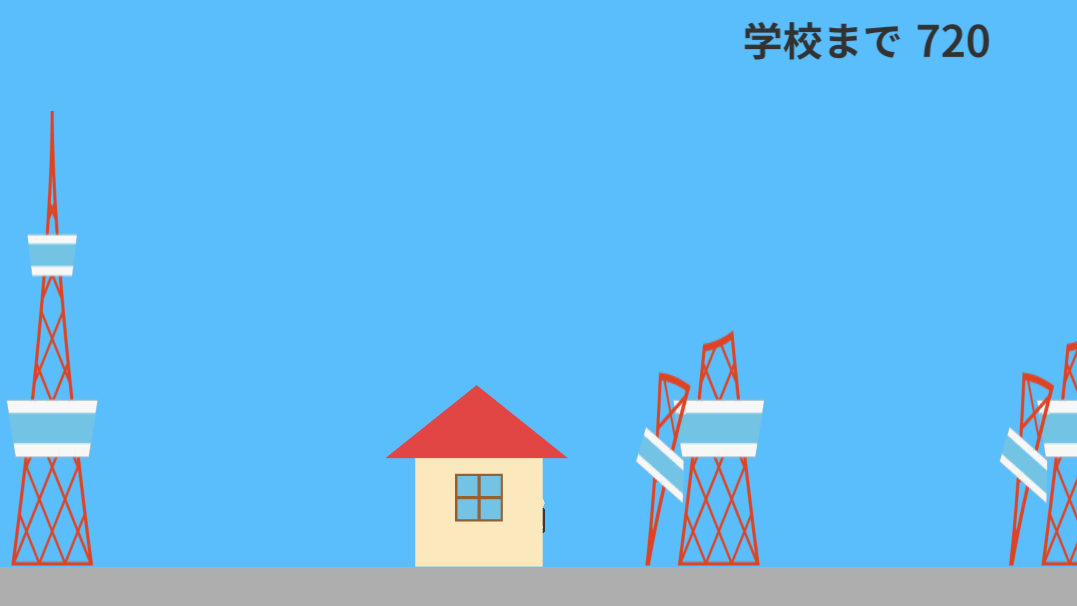
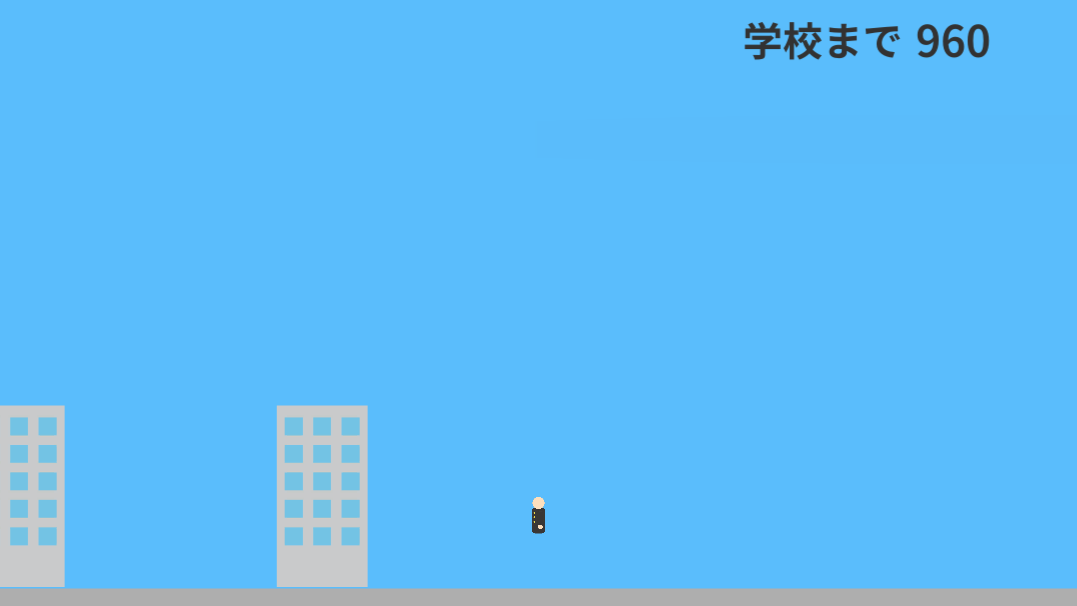
kannsei

Changed region(s): [[0.0, 0.1782, 1.0, 0.9802], [0.8273, 0.0297, 0.9192, 0.0891]]

diff --git a/Assets/Scripts/GameMain/CameraManager.cs b/Assets/Scripts/GameMain/CameraManager.cs
@@ -16,22 +16,21 @@ namespace gamemain {
 
         private void Start() {
             map_ = GameObject.Find("MapGenerator").GetComponent<MapGenerator>();
+            transform.position = new Vector3(map_.m_schoolPos.x, transform.position.y, transform.position.z);
 
-            // tweener_ = transform.DOMove(target_.transform.position + new Vector3(difference_.x, 0, -10), 5.0f);
+            tweener_ = transform.DOMove(target_.transform.position + new Vector3(difference_.x, difference_.y, -10), 5.0f).OnComplete(() => tweener_ = null);
         }
 
         private void LateUpdate() {
 
-            /* 
-            if (Input.GetMouseButtonDown(0)) {
+            if (Input.GetKeyDown(KeyCode.Return)) {
                 tweener_.Kill();
                 tweener_ = null;
             }
-			*/
 
-            // if (tweener_ == null || tweener_.IsComplete()) {
-            transform.position = target_.transform.position + new Vector3(difference_.x, difference_.y, -10);
-            // }
+            if (tweener_ == null || tweener_.IsComplete()) {
+                transform.position = target_.transform.position + new Vector3(difference_.x, difference_.y, -10);
+            }
         }
     }
 }

diff --git a/Assets/hira/Script/MapGenerator.cs b/Assets/hira/Script/MapGenerator.cs
@@ -9,7 +9,7 @@ public class MapGenerator : MonoBehaviour {
     private const int m_minLength = 50;
     private const int m_maxLength = 100;
 
-    private Vector3 m_schoolPos;
+    public Vector3 m_schoolPos;
 
     [SerializeField]
     GameObject m_bill;
